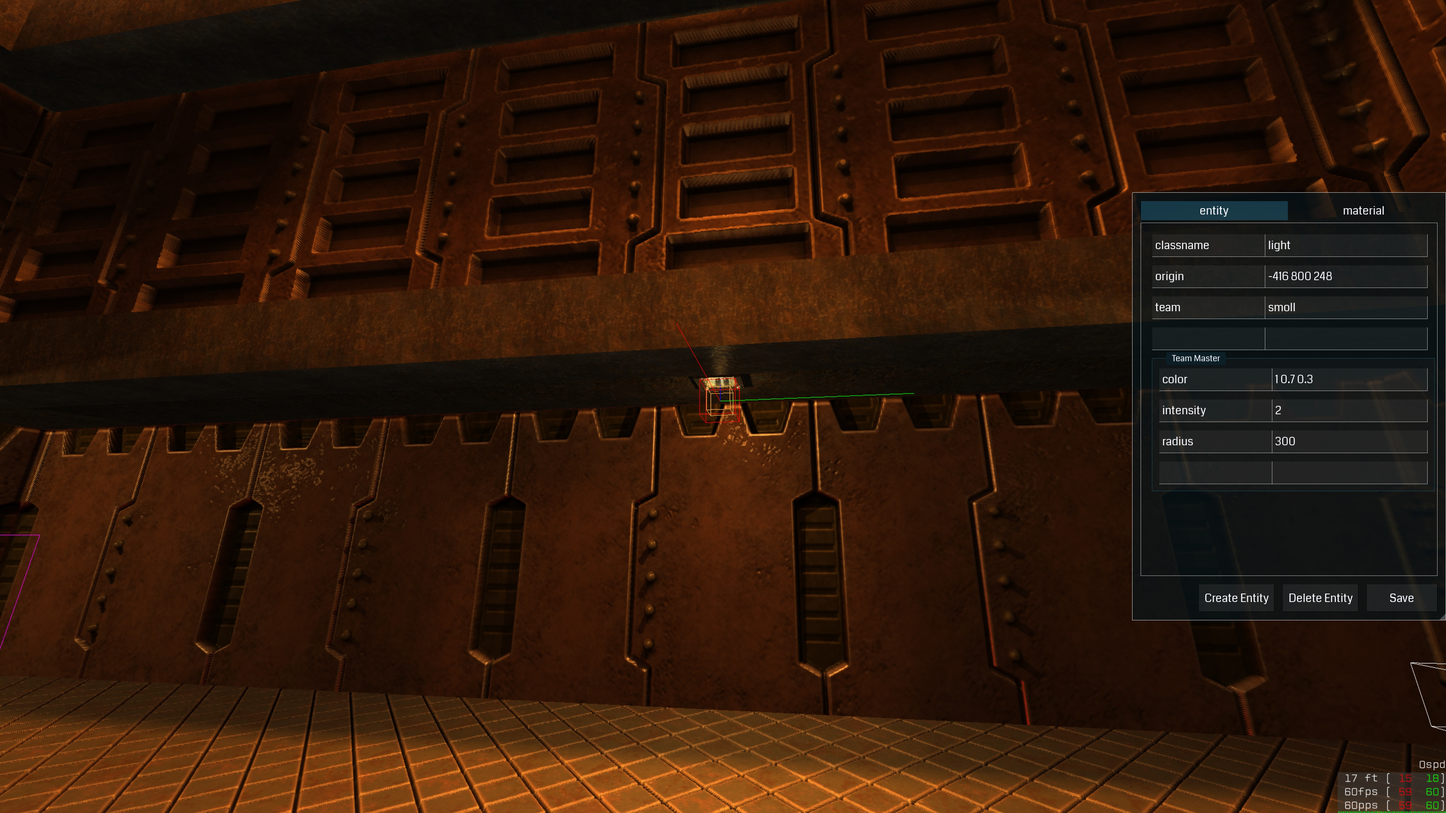
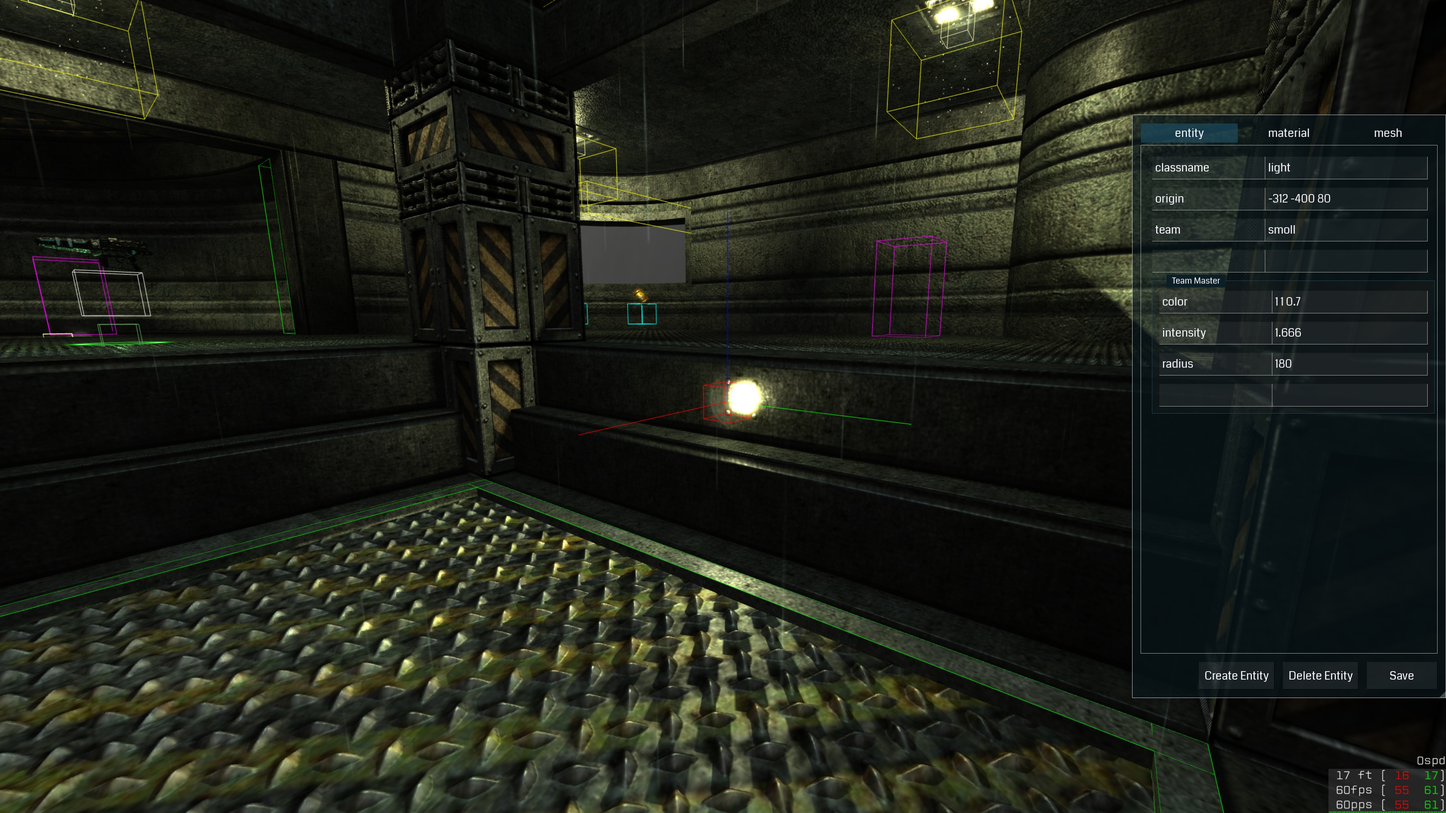
Address issue #822 and improve Mapping Guide presentation
Corrections (closes jdolan/quetoo#822):
- Remove duplicate packaging tip; consolidate into single block
- Add '(mesh/model surfaces only)' caveat to the shell stage directive
- Remove diffusemap and footsteps from the minimal PBR material example
- Update editor tab count: two tabs → three (Entities, Materials, Mesh)
- Remove light_sun entity (does not exist in source)
- Add drift and target keys to light entity documentation
- Add misc_teleporter and misc_teleporter_dest to Key Entities table
- Add Windows lock-key note for entity movement

Screenshots:
- Replace all three in-game editor screenshots with current captures

Presentation:
- Add .github/copilot-instructions.md for Copilot sessions
- New layouts/docs/single.html: CSS grid layout with sticky TOC sidebar
- hugo.toml: configure [markup.tableOfContents] (h2–h3), bump cssVersion
- figure shortcode: add optional float param (doc-figure-left/right)
- Float editor-entities, editor-lights, and editor-materials screenshots
- Doc tables: auto layout with shrink-to-fit first column
- Code blocks: width fit-content, min-width 50%

diff --git a/themes/quetoo/static/css/style.css b/themes/quetoo/static/css/style.css
@@ -442,6 +442,8 @@ h3 { font-size: 1.2rem; margin-bottom: 0.5rem; }
   padding: 1.5rem;
   overflow-x: auto;
   margin-bottom: 1.5rem;
+  width: fit-content;
+  min-width: 50%;
 }
 
 .page-content pre code {
@@ -457,6 +459,133 @@ h3 { font-size: 1.2rem; margin-bottom: 0.5rem; }
 .doc-figure { display: block; margin: 1.5rem 0; cursor: zoom-in; }
 .doc-figure img { max-width: 100%; height: auto; border-radius: 6px; display: block; transition: opacity 0.2s; }
 .doc-figure:hover img { opacity: 0.85; }
+
+/* ── Docs layout: article + sticky TOC ── */
+
+.doc-layout {
+  display: grid;
+  grid-template-columns: minmax(0, 1fr) 220px;
+  column-gap: 3rem;
+}
+
+.doc-layout:not(:has(.doc-toc)) {
+  grid-template-columns: 1fr;
+}
+
+.doc-layout > .page-content {
+  align-self: start;
+  padding-left: 0;
+  padding-right: 0;
+}
+
+.doc-content h2,
+.doc-content h3,
+.doc-content h4 {
+  scroll-margin-top: 80px;
+}
+
+.doc-content pre,
+.doc-content .highlight,
+.doc-content table,
+.doc-content blockquote {
+  clear: both;
+}
+
+.doc-content table {
+  table-layout: auto;
+}
+
+.doc-content td:nth-child(1) {
+  width: auto;
+  white-space: nowrap;
+}
+
+/* ── Floated figures ── */
+
+.doc-figure-left,
+.doc-figure-right {
+  max-width: 400px;
+  margin-top: 0;
+  margin-bottom: 1rem;
+}
+
+.doc-figure-left { float: left; margin-right: 2rem; }
+.doc-figure-right { float: right; margin-left: 2rem; }
+
+.doc-figure-left:hover,
+.doc-figure-right:hover {
+  transform: none;
+}
+
+@media (max-width: 768px) {
+  .doc-figure-left,
+  .doc-figure-right {
+    float: none;
+    max-width: 100%;
+    margin-left: 0;
+    margin-right: 0;
+  }
+}
+
+/* ── Table of contents ── */
+
+.doc-toc {
+  padding-top: 8rem;
+}
+
+.doc-toc-inner {
+  position: sticky;
+  top: 80px;
+  max-height: calc(100vh - 100px);
+  overflow-y: auto;
+}
+
+.doc-toc-heading {
+  font-size: 0.7rem;
+  font-weight: 700;
+  text-transform: uppercase;
+  letter-spacing: 0.08em;
+  color: var(--text-muted);
+  margin-bottom: 0.75rem;
+}
+
+.doc-toc nav ul {
+  list-style: none;
+  padding: 0;
+  margin: 0;
+}
+
+.doc-toc nav ul ul {
+  padding-left: 0.75rem;
+}
+
+.doc-toc nav ul li {
+  margin-bottom: 0.3rem;
+}
+
+.doc-toc nav ul li a {
+  font-size: 0.8rem;
+  color: var(--text-muted);
+  text-decoration: none;
+  line-height: 1.4;
+  display: block;
+  padding: 0.1rem 0;
+  transition: color 0.15s;
+}
+
+.doc-toc nav ul li a:hover {
+  color: var(--accent-light);
+}
+
+@media (max-width: 1100px) {
+  .doc-layout {
+    grid-template-columns: 1fr;
+  }
+
+  .doc-toc {
+    display: none;
+  }
+}
 
 /* ── Downloads ── */
 

diff --git a/layouts/docs/single.html b/layouts/docs/single.html
@@ -1,0 +1,21 @@
+{{ define "main" }}
+<div class="doc-layout container">
+  <article class="doc-content page-content">
+    <h1>{{ .Title }}</h1>
+    {{ .Content }}
+  </article>
+  {{ with .TableOfContents }}
+  <nav class="doc-toc" aria-label="Table of contents">
+    <div class="doc-toc-inner">
+      <p class="doc-toc-heading">On this page</p>
+      {{ . }}
+    </div>
+  </nav>
+  {{ end }}
+</div>
+
+<div class="lightbox" id="lightbox">
+  <button class="lightbox-close">&times;</button>
+  <img id="lightbox-img" src="" alt="">
+</div>
+{{ end }}

diff --git a/themes/quetoo/layouts/shortcodes/figure.html b/themes/quetoo/layouts/shortcodes/figure.html
@@ -1,3 +1,3 @@
-<a href="{{ .Get "src" }}" class="gallery-item doc-figure" data-full="{{ .Get "src" }}">
+{{- $float := .Get "float" -}}<a href="{{ .Get "src" }}" class="gallery-item doc-figure{{ with $float }} doc-figure-{{ . }}{{ end }}" data-full="{{ .Get "src" }}">
   <img src="{{ .Get "src" }}" alt="{{ .Get "alt" }}" loading="lazy">
 </a>

diff --git a/content/docs/mapping.md b/content/docs/mapping.md
@@ -23,15 +23,9 @@ Load your map in Quetoo from the console (`` ` ``):
 map mymap
 ```
 
-Package a finished map and its custom assets for release:
-
-```bash
-quemap -zip maps/mymap.bsp
-```
-
 ---
 
-## Custom Content Paths
+## Content Paths
 
 Quetoo looks for custom maps, textures, sounds, and models in your platform's user data directory:
 
@@ -63,11 +57,15 @@ Then load it from the console:
 map mymap
 ```
 
-> **Tip:** The `quemap -zip` command packages a finished map together with all its custom assets into a single `.pk3` that players can drop in their own `default/` directory.
+> **Tip:** Package a finished map and all its custom assets into a single `.pk3` for release:
+> ```bash
+> quemap -zip maps/mymap.bsp
+> ```
+> Players drop the resulting `.pk3` into their own `default/` directory.
 
 ---
 
-## Materials
+## Materials System
 
 Every texture in Quetoo can have a matching `.mat` file that controls how it looks and behaves in the engine. A material file has the same base name as its texture and lives alongside it in the `textures/` tree:
 
@@ -78,7 +76,7 @@ textures/mymap/wall01.mat       ← the material definition
 
 If no `.mat` file exists, the engine uses built-in defaults for all properties.
 
-### File Structure
+### File Syntax
 
 A material file contains exactly one material block, enclosed in curly braces. C-style `//` line comments and `/* */` block comments are supported.
 
@@ -180,7 +178,7 @@ A material can have any number of stage blocks. Each stage is an additional rend
     envmap <asset>                // environment-map reflection
     terrain <floor> <ceil>        // blend based on world Z height
     dirtmap <intensity>           // apply ambient occlusion dirtmap (0.0–1.0)
-    shell <radius>                // render as an outward shell (item glow effect)
+    shell <radius>                // render as an outward shell (item glow effect; mesh/model surfaces only)
 }
 ```
 
@@ -192,18 +190,16 @@ Valid `blend` source/destination constants: `GL_ONE`, `GL_ZERO`, `GL_SRC_ALPHA`,
 
 #### 1. Minimal material (PBR properties only)
 
-A simple metal floor. Normal and specular maps are auto-detected from `_norm`/`_spec` suffixes, so only the PBR scalars are needed:
+A simple metal floor. The diffuse map defaults to the texture name, and normal/specular maps are auto-detected from `_norm`/`_spec` suffixes, so only the PBR scalars are needed:
 
 ```
 // textures/mymap/metal_floor.mat
 {
-    diffusemap mymap/metal_floor
     roughness 3.43
     hardness 3.84
     specularity 2.12
     parallax 0.75
     shadow 0.00
-    footsteps metal
 }
 ```
 
@@ -346,7 +342,7 @@ Cobweb that is visible but does not block movement or projectiles:
 
 ---
 
-## The In-Game Editor
+## In-Game Editor
 
 Quetoo includes a built-in live editor. It lets you place and modify entities and tweak material properties in real time, with instant visual feedback, without ever leaving the game.
 
@@ -357,13 +353,13 @@ editor 1
 map mymap
 ```
 
-The editor panel appears on the right side of the screen. It has two tabs: **Entities** and **Materials**.
+The editor panel appears on the right side of the screen. It has three tabs: **Entities**, **Materials**, and **Mesh**.
 
 ---
 
-### Entity Editor
+### Entities
 
-{{< figure src="/images/editor/editor-entities.jpg" alt="In-game entity editor" >}}
+{{< figure src="/images/editor/editor-entities.jpg" alt="In-game entity editor" float="right" >}}
 
 The entity editor shows all key/value pairs for the entity you are currently looking at. When you open the editor, the entity closest to your crosshair is automatically selected.
 
@@ -386,6 +382,8 @@ With the entity panel open and an entity selected, use the standard movement key
 
 Movement is snapped to the **grid size**, which you can change with keys `1`–`8` (matching Radiant convention: key `1` = 1 unit, `2` = 2, `3` = 4, … `8` = 128). The default grid size is 16 units.
 
+> **Windows note:** If entity movement keys are unresponsive, make sure all lock keys (Caps Lock, Num Lock, Scroll Lock) are off. An SDL key-mapping quirk on Windows can cause lock keys to interfere with movement input.
+
 **Creating and deleting entities**
 
 - **Create** — the **Create Entity** button spawns a new `light` entity at your crosshair position, snapped to the grid
@@ -407,11 +405,11 @@ All key/value pairs for the selected entity are shown as editable fields. Click 
 
 Click **Save** (or run `save_editor_map` from the console) to write the modified entity data back to the `.map` file on disk. Material changes are saved at the same time via `r_save_materials`.
 
-{{< figure src="/images/editor/editor-lights.jpg" alt="Editing a light entity in-game" >}}
-
 ---
 
 ### Light Teams
+
+{{< figure src="/images/editor/editor-lights.jpg" alt="Editing a light entity in-game" float="left" >}}
 
 Light teams are one of the most powerful time-saving features in Quetoo's lighting system. They let you manage a group of `light` entities — a row of ceiling fixtures, a ring of wall sconces, an array of runway lights — as a single unit. Set the shared properties (color, radius, intensity, animation style) once on the **team master**, and every light in the team inherits them automatically. Change the master in the in-game editor and all lights update live, without recompiling the map.
 
@@ -495,9 +493,9 @@ You can write a custom style string for any rhythm you like. Styles are especial
 
 ---
 
-### Material Editor
+### Materials
 
-{{< figure src="/images/editor/editor-materials.jpg" alt="In-game material editor" >}}
+{{< figure src="/images/editor/editor-materials.jpg" alt="In-game material editor" float="right" >}}
 
 The **Materials** tab lets you tune surface properties of any material in the map — in real time, with instant visual feedback.
 
@@ -528,12 +526,13 @@ All changes are reflected immediately in the renderer. The material is marked di
 | `info_player_deathmatch` | Deathmatch spawn point. Place multiple. |
 | `info_player_team1` / `info_player_team2` | Red / blue team spawns |
 | `item_flag_team1` / `item_flag_team2` | CTF flags |
-| `light` | Point light. Keys: `radius`, `color`, `intensity`, `style`, `team` |
-| `light_sun` | Directional sunlight for outdoor areas |
+| `light` | Point light. Keys: `radius`, `color`, `intensity`, `style`, `team`, `drift`, `target` |
 | `func_door` | Moving door brush entity |
 | `func_plat` | Rising platform |
 | `func_rotating` | Continuously rotating brush |
-| `trigger_teleport` | Teleporter trigger volume |
+| `misc_teleporter` | Point-entity teleporter (model-less). Warps touching players to a targeted `misc_teleporter_dest`. |
+| `misc_teleporter_dest` | Teleport destination for `misc_teleporter`. |
+| `trigger_teleport` | Brush-entity teleporter trigger volume |
 
 Items use standard Quake II classnames: `item_health`, `weapon_railgun`, `ammo_slugs`, `item_armor_body`, etc.
 

diff --git a/.github/copilot-instructions.md b/.github/copilot-instructions.md
@@ -1,0 +1,74 @@
+# Quetoo Website — Copilot Instructions
+
+## Overview
+
+Static website for [quetoo.org](https://quetoo.org), built with [Hugo](https://gohugo.io). Deployed to GitHub Pages on every push to `main` via `.github/workflows/deploy.yml`. The site uses the `hugo` extended build (required for SCSS processing).
+
+## Commands
+
+```sh
+hugo server          # Dev server with live reload at http://localhost:1313
+hugo --minify        # Production build → ./public/
+```
+
+## Architecture
+
+### Theme vs. project-level layouts
+
+The custom theme lives in `themes/quetoo/`. Hugo's lookup order means files in the project-level `layouts/` directory **override** theme layouts for the same path. Use this to customize specific sections without touching the theme.
+
+- `themes/quetoo/layouts/` — base templates, partials, shortcodes
+- `layouts/news/`, `layouts/servers/`, `layouts/stats/` — project-level overrides for those sections
+
+### Static assets
+
+- `themes/quetoo/static/css/style.css` — global styles
+- `themes/quetoo/static/css/stats.css` — shared by both `/servers/` and `/stats/` pages
+- `themes/quetoo/static/js/main.js` — sitewide JS (nav toggle, tagline carousel, lightbox, download counter, A/B sliders)
+- `static/js/servers.js` — server browser; fetches live data from `https://giblets.quetoo.org/api/servers`
+- `static/js/stats.js` — leaderboard/player detail; fetches from `https://giblets.quetoo.org/api/stats` and `/api/options`
+
+### CSS cache-busting
+
+`hugo.toml` has a `cssVersion` param. In development, the stylesheet is fingerprinted with `now.Unix`; in production it uses the static `cssVersion` value. **Bump `cssVersion` in `hugo.toml` when making CSS changes** so browsers pick them up after deploy.
+
+### Dynamic pages (Servers & Stats)
+
+`/servers/` and `/stats/` are shell Hugo pages — the HTML template injects a `<div>` placeholder and loads a JS file that fetches from the `giblets.quetoo.org` API at runtime. There is no Hugo data file; all data is client-side.
+
+## Key Conventions
+
+### Shortcodes
+
+Three custom shortcodes are defined in `themes/quetoo/layouts/shortcodes/`:
+
+| Shortcode | Usage |
+|---|---|
+| `{{< ab-compare before="..." after="..." before-label="..." after-label="..." title="..." >}}` | Interactive drag-to-compare slider for two images |
+| `{{< figure src="..." alt="..." >}}` | Lightbox-enabled image (uses `.gallery-item` + `data-full` for JS hook) |
+| `{{< download-counter >}}` | Inline span that JS populates with cumulative GitHub release download count |
+
+### Content front matter
+
+News posts support `featured_image` (used for OG/Twitter card image). All pages support `description` (overrides the site-level description for SEO). Example:
+
+```yaml
+---
+title: "Post Title"
+description: "Used in meta tags"
+date: 2026-05-22
+featured_image: "/images/screenshots/quetoo057.jpg"
+---
+```
+
+### Raw HTML in Markdown
+
+`markup.goldmark.renderer.unsafe = true` is set in `hugo.toml`, so raw HTML is allowed directly in `.md` content files. This is intentional — news posts and doc pages use inline `<div>`, `<span>`, and class attributes for styling.
+
+### Quetoo color codes
+
+Server/player names from the API contain Quetoo color escape sequences (`^0`–`^9`). The `stripColors()` helper in `servers.js` strips them before display.
+
+### Google Analytics
+
+Only injected in production builds (`{{ if hugo.IsProduction }}`). It is never active during `hugo server`.
